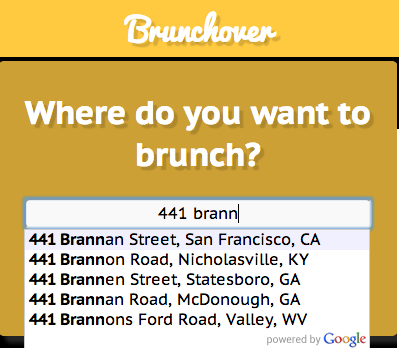
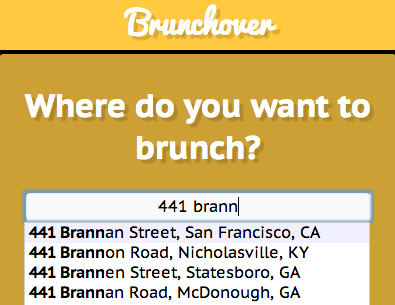
fixed img file size to be consistent

diff --git a/portfolio.html b/portfolio.html
@@ -135,7 +135,6 @@
       <div class="panel panel-primary">
         <div class="panel-heading">
           <h3 class="panel-title luckypots">Get Lucky Pots
-            <a href="#" target="_blank"><i class="icon-link icon-small"></i></a>
             <a href="https://github.com/elizahyde/luckypots" target="_blank"><i class="icon-github icon-small"></i></a>
             </div>
             <div class="panel-body panel-primary">
